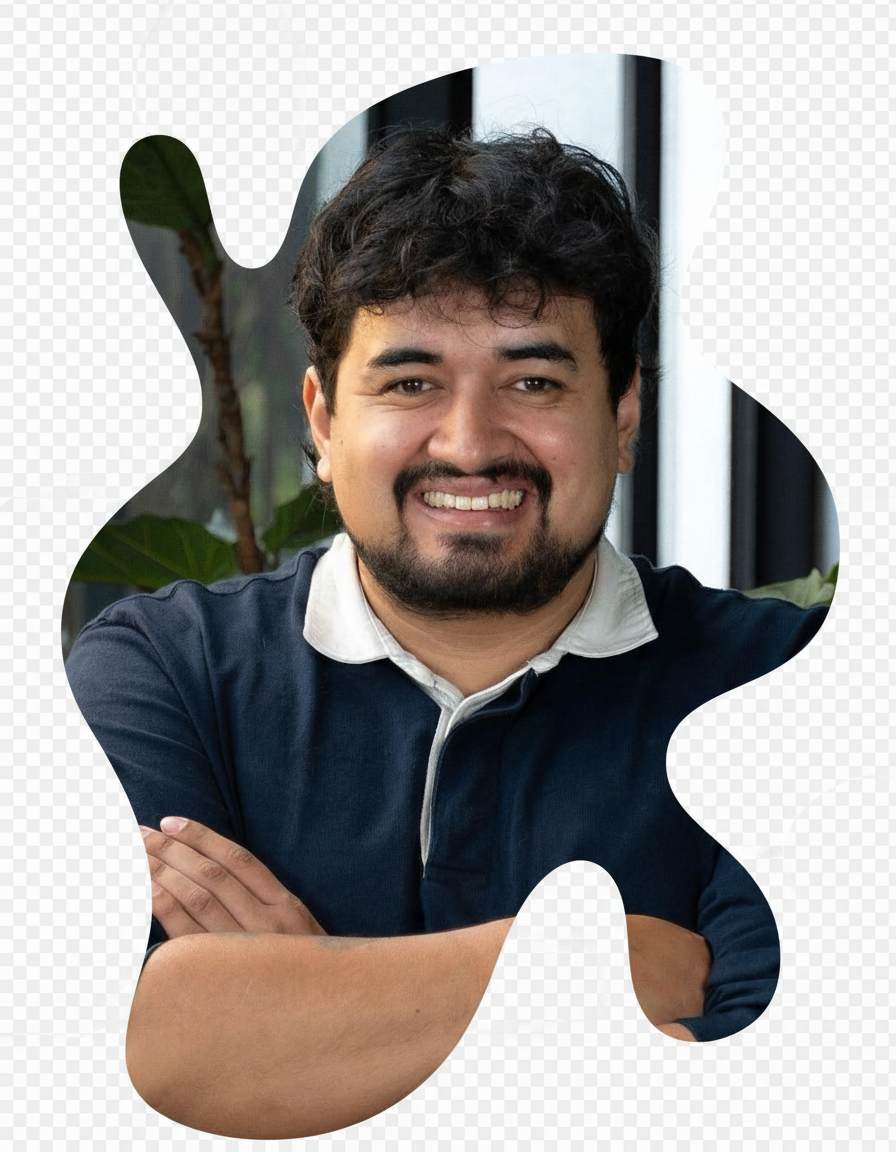
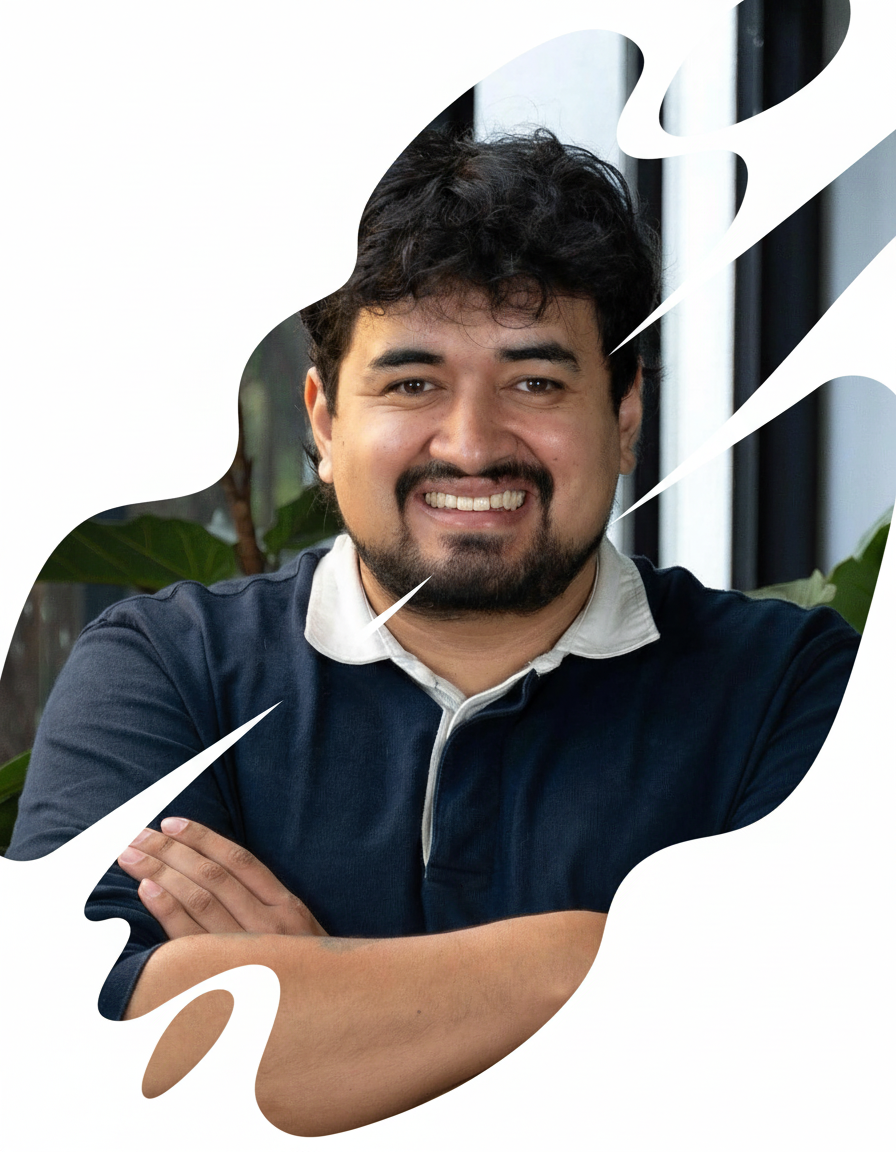
upgrade

diff --git a/resources/views/welcome.blade.php b/resources/views/welcome.blade.php
@@ -43,7 +43,7 @@
 <section class="hero-wrap js-fullheight">
     <div class="container-fluid px-0">
         <div class="row d-md-flex no-gutters slider-text align-items-center js-fullheight justify-content-end">
-            <img class="one-third js-fullheight align-self-end order-md-last img-fluid" src="{{ url('images/robinson.png') }}" alt="" style="height: auto;width: auto;  filter: blur(1px);">
+            <img class="one-third js-fullheight align-self-end order-md-last img-fluid" src="{{ url('images/robinson.png') }}" alt="" style="height: auto;width: auto;  filter: blur(1px);transform: scale(.7)">
             <div class="one-forth d-flex align-items-center ftco-animate js-fullheight">
                 <div class="text mt-5">
                     <span class="subheading">Aprender y enseñar es parte del mismo viaje</span>
